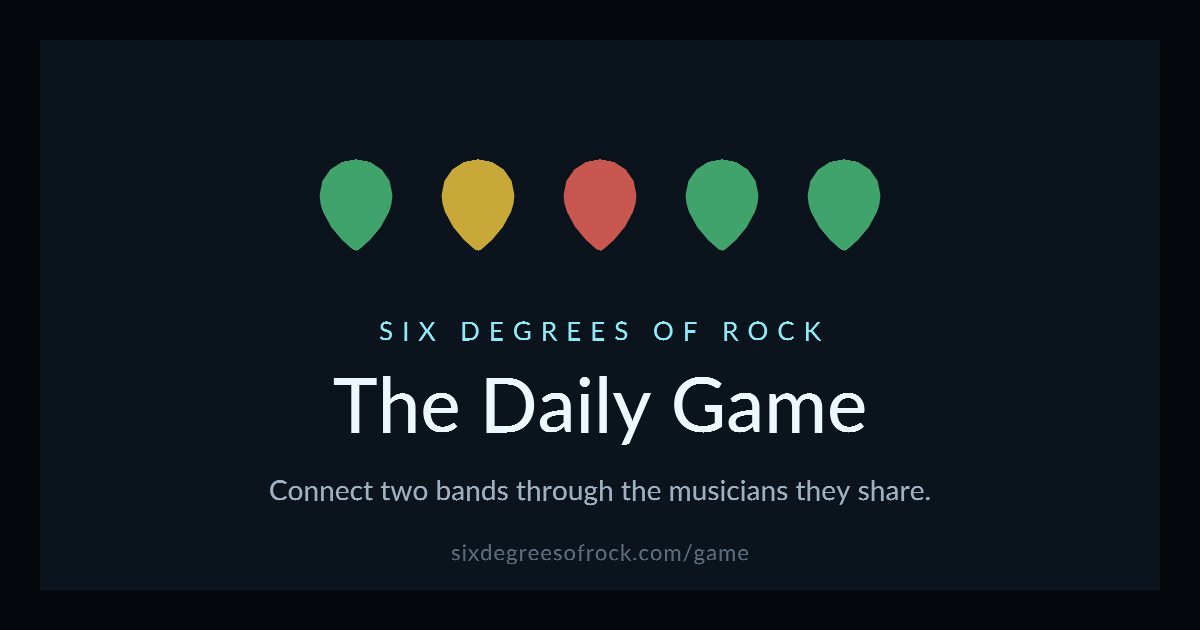
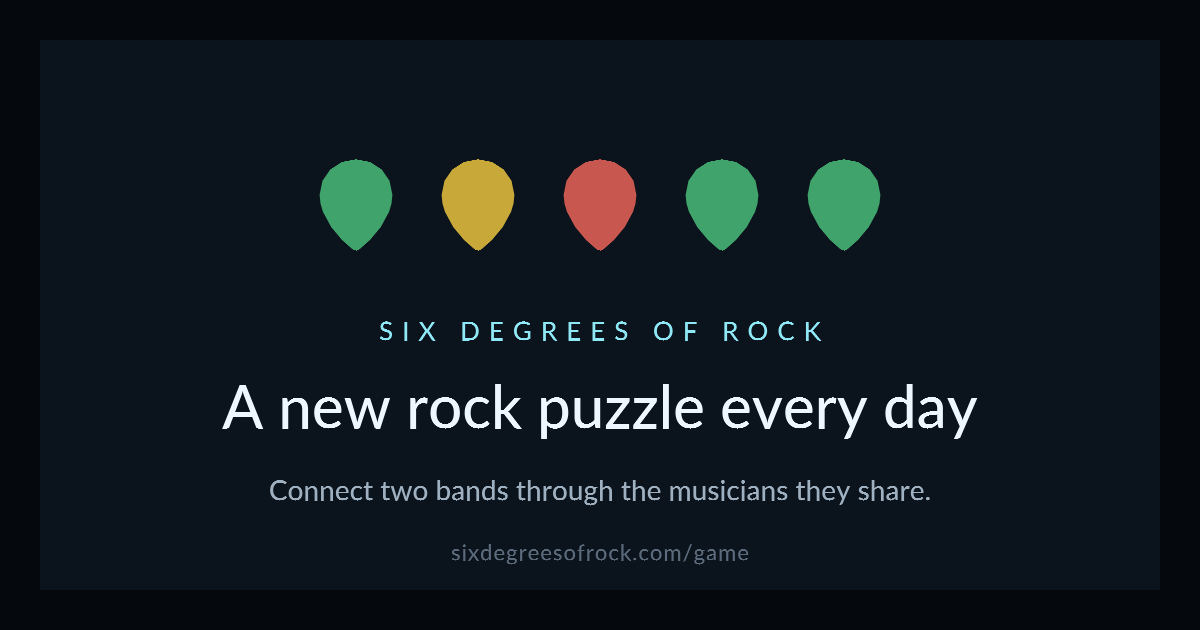
seo: "A new rock puzzle every day" card; /game canonical fix; structured data; sitemap
- game-og.png headline: "A new rock puzzle every day" (says game + daily
  at a glance); image URL bumped to ?v=2 since PNGs are cached a week.
- /game: canonical and og:url were https://…/game, which 301s to /game/;
  a canonical pointing at a redirect is a crawl error. Now /game/.
  Title "Daily Rock Puzzle: Connect Two Bands | Six Degrees of Rock",
  description says free / no sign-up / Wordle-style, VideoGame JSON-LD.
- Homepage: title "Six Degrees of Rock — How Bands and Musicians
  Connect" (og:title/twitter:title match, per the existing title test),
  description mentions the daily puzzle, WebSite + Organization JSON-LD.
- sitemap.xml: adds /game/ (daily) and lastmod on both.

Checked: robots allows everything but /admin/, no noindex, www/http/
netlify.app all 301 to https://sixdegreesofrock.com, homepage links /game.

Changed region(s): [[0.185, 0.573, 0.8325, 0.6937]]

diff --git a/game/index.html b/game/index.html
@@ -3,25 +3,26 @@
 <head>
   <meta charset="UTF-8" />
   <meta name="viewport" content="width=device-width, initial-scale=1.0" />
-  <title>Six Degrees of Rock — the daily game</title>
-  <meta name="description" content="Connect two famous bands through the musicians they share. A new rock chain every day." />
-  <link rel="canonical" href="https://sixdegreesofrock.com/game" />
+  <title>Daily Rock Puzzle: Connect Two Bands | Six Degrees of Rock</title>
+  <meta name="description" content="A new rock puzzle every day: connect two famous bands through the musicians they share. Free, no sign-up, a Wordle-style daily game for music fans." />
+  <link rel="canonical" href="https://sixdegreesofrock.com/game/" />
+  <script type="application/ld+json">{"@context": "https://schema.org", "@type": "VideoGame", "name": "Six Degrees of Rock: Daily Chain", "url": "https://sixdegreesofrock.com/game/", "description": "A new rock puzzle every day: connect two famous bands through the musicians they share. Free, no sign-up, a Wordle-style daily game for music fans.", "image": "https://sixdegreesofrock.com/game-og.png?v=2", "genre": ["Puzzle", "Trivia", "Music"], "gamePlatform": "Web browser", "applicationCategory": "GameApplication", "operatingSystem": "Any", "isAccessibleForFree": true, "offers": {"@type": "Offer", "price": "0", "priceCurrency": "USD"}, "publisher": {"@type": "Organization", "name": "Six Degrees of Rock", "url": "https://sixdegreesofrock.com/"}}</script>
   <link rel="icon" href="/favicon.ico" sizes="any" />
   <link rel="icon" type="image/png" href="/favicon-32.png" sizes="32x32" />
   <link rel="apple-touch-icon" href="/apple-touch-icon.png" />
   <meta property="og:type" content="website" />
   <meta property="og:site_name" content="Six Degrees of Rock" />
-  <meta property="og:title" content="Six Degrees of Rock — the daily game" />
-  <meta property="og:description" content="Connect two famous bands through the musicians they share. A new rock chain every day." />
-  <meta property="og:url" content="https://sixdegreesofrock.com/game" />
-  <meta property="og:image" content="https://sixdegreesofrock.com/game-og.png?v=1" />
+  <meta property="og:title" content="Six Degrees of Rock — a new rock puzzle every day" />
+  <meta property="og:description" content="Connect two famous bands through the musicians they share. Free, no sign-up." />
+  <meta property="og:url" content="https://sixdegreesofrock.com/game/" />
+  <meta property="og:image" content="https://sixdegreesofrock.com/game-og.png?v=2" />
   <meta property="og:image:width" content="1200" />
   <meta property="og:image:height" content="630" />
-  <meta property="og:image:alt" content="Six Degrees of Rock, The Daily Game: a row of green, yellow and red guitar picks. Connect two bands through the musicians they share." />
+  <meta property="og:image:alt" content="Six Degrees of Rock: a new rock puzzle every day. A row of green, yellow and red guitar picks. Connect two bands through the musicians they share." />
   <meta name="twitter:card" content="summary_large_image" />
-  <meta name="twitter:title" content="Six Degrees of Rock — the daily game" />
-  <meta name="twitter:description" content="Connect two famous bands through the musicians they share. A new rock chain every day." />
-  <meta name="twitter:image" content="https://sixdegreesofrock.com/game-og.png?v=1" />
+  <meta name="twitter:title" content="Six Degrees of Rock — a new rock puzzle every day" />
+  <meta name="twitter:description" content="Connect two famous bands through the musicians they share. Free, no sign-up." />
+  <meta name="twitter:image" content="https://sixdegreesofrock.com/game-og.png?v=2" />
   <link rel="preload" href="/vendor/fonts/boska-700.woff2" as="font" type="font/woff2" crossorigin />
   <link rel="stylesheet" href="/vendor/fonts.css" />
   <style>

diff --git a/index.html b/index.html
@@ -21,7 +21,7 @@
     og:title and twitter:title, which have always been the bare name -- meaning a
     shared link and the tab it opened were labelled two different things.
   -->
-  <title>Six Degrees of Rock</title>
+  <title>Six Degrees of Rock — How Bands and Musicians Connect</title>
 
   <!--
     Pre-launch URL hygiene. Every one of these was a live 404 or a missing tag
@@ -40,7 +40,8 @@
 
   <!-- Meta description used by search engines and any unfurler that
        doesn't find a fuller Open Graph title/description. -->
-  <meta name="description" content="Explore how bands and musicians connect across scenes and decades. An interactive family tree of rock, punk, metal, and beyond." />
+  <meta name="description" content="Explore how bands and musicians connect across scenes and decades: an interactive family tree of rock, punk, metal and more, plus a free daily rock puzzle." />
+  <script type="application/ld+json">[{"@context": "https://schema.org", "@type": "WebSite", "name": "Six Degrees of Rock", "url": "https://sixdegreesofrock.com/", "description": "Explore how bands and musicians connect across scenes and decades: an interactive family tree of rock, punk, metal and more, plus a free daily rock puzzle."}, {"@context": "https://schema.org", "@type": "Organization", "name": "Six Degrees of Rock", "url": "https://sixdegreesofrock.com/", "logo": "https://sixdegreesofrock.com/apple-touch-icon.png"}]</script>
 
   <!-- Open Graph tags: what Facebook, iMessage, Slack, LinkedIn, etc.
        show when the site URL is posted. og-image.png is a purpose-built
@@ -63,7 +64,7 @@
        og_image.mjs); this file is the front door's card and its fallback. -->
   <meta property="og:type" content="website" />
   <meta property="og:site_name" content="Six Degrees of Rock" />
-  <meta property="og:title" content="Six Degrees of Rock" />
+  <meta property="og:title" content="Six Degrees of Rock — How Bands and Musicians Connect" />
   <meta property="og:description" content="Explore how bands and musicians connect across scenes and decades." />
   <meta property="og:url" content="https://sixdegreesofrock.com/" />
   <meta property="og:image" content="https://sixdegreesofrock.com/og-image.png?v=2" />
@@ -75,7 +76,7 @@
        width in the timeline; without this tag X falls back to a small
        thumbnail. -->
   <meta name="twitter:card" content="summary_large_image" />
-  <meta name="twitter:title" content="Six Degrees of Rock" />
+  <meta name="twitter:title" content="Six Degrees of Rock — How Bands and Musicians Connect" />
   <meta name="twitter:description" content="Explore how bands and musicians connect across scenes and decades." />
   <meta name="twitter:image" content="https://sixdegreesofrock.com/og-image.png?v=2" />
 
